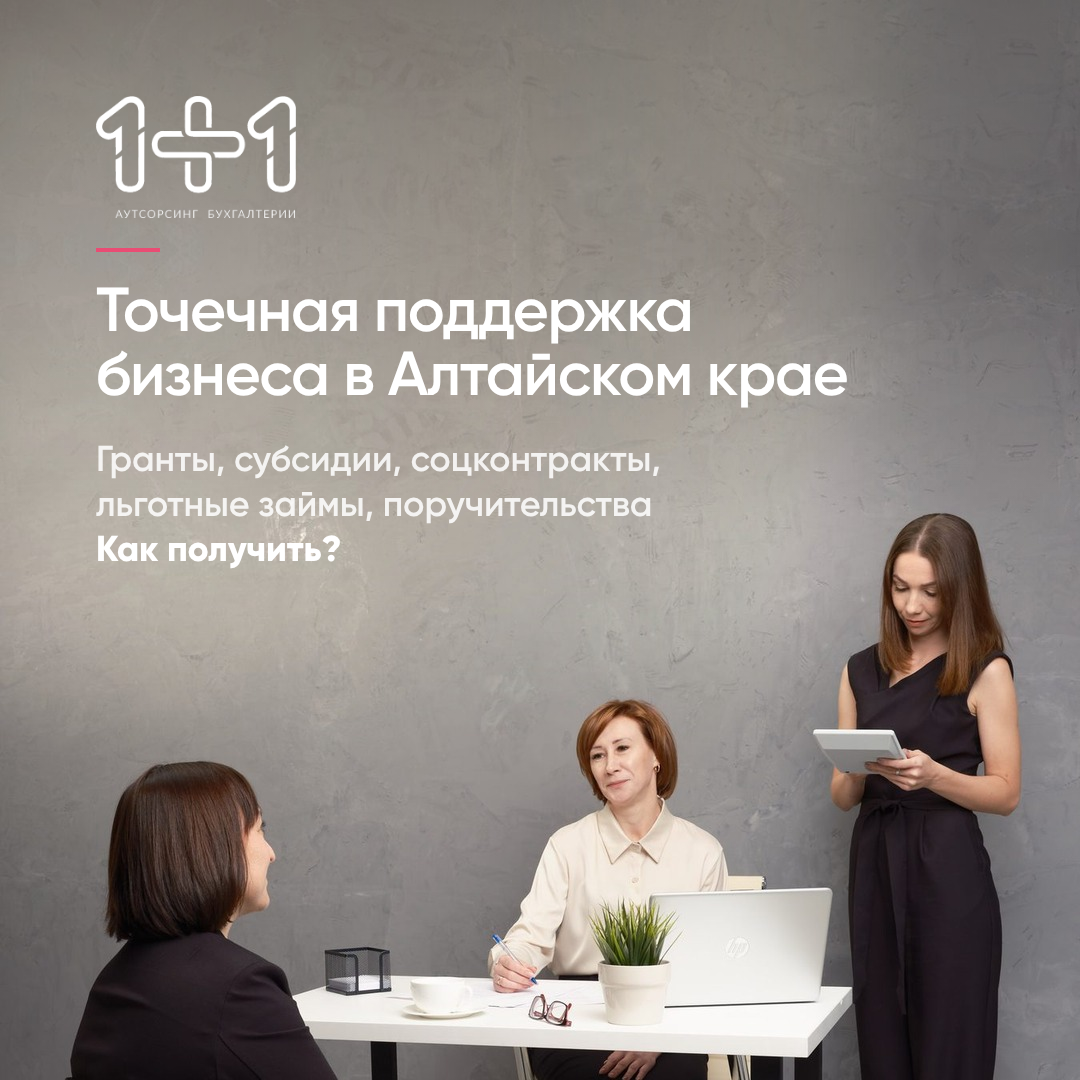
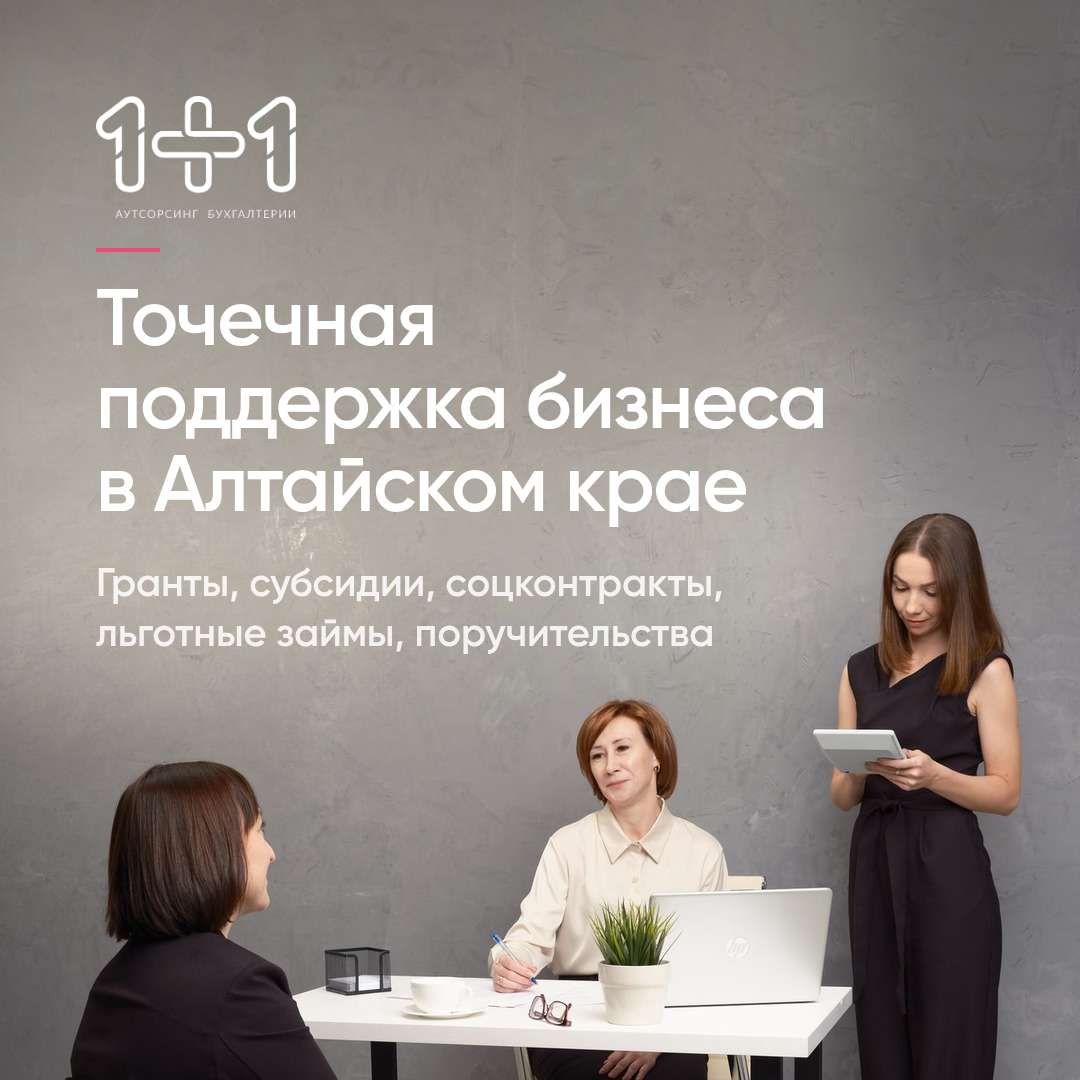
Поддержка бизнеса: убрана строка «Как получить?», заголовок крупнее
Claude-Session: https://claude.ai/code/session_01VZ7Hrkur6jxoGp5f6QSiLJ

Changed region(s): [[0.0917, 0.2444, 0.7944, 0.55], [0.0917, 0.5806, 0.6722, 0.6111]]

diff --git a/examples/support-b.html b/examples/support-b.html
@@ -1,10 +1,10 @@
 <!doctype html><html lang="ru"><head><meta charset="utf-8"><title>Точечная поддержка · V8 фрагмент</title>
 <link rel="stylesheet" href="../templates/base.css">
-<style>.band{position:absolute;left:0;bottom:0;width:1080px;height:380px;background:var(--photo) center/cover}
+<style>.band{position:absolute;left:0;bottom:0;width:1080px;height:400px;background:var(--photo) center/cover}
 .s{margin-top:26px;color:var(--stone);font-weight:500;max-width:888px}</style></head><body>
 <div class="canvas paper"><div class="band" data-slot="photo" style="--photo:url(../assets/team/color-0677.jpg)"></div>
 <img class="logo" src="../assets/logo-full.png" alt="">
 <div class="text-top"><div class="dash"></div>
 <div class="h-m" data-slot="title" data-fit data-sizes="80" data-max-lines="3">Точечная<br>поддержка бизнеса<br>в Алтайском крае</div>
-<p class="sub s" data-slot="sub" data-fit data-sizes="34" data-max-lines="3">Гранты, субсидии, соцконтракты,<br>льготные займы, поручительства<br><em class="acc">Как получить?</em></p></div></div>
+<p class="sub s" data-slot="sub" data-fit data-sizes="38" data-max-lines="2">Гранты, субсидии, соцконтракты,<br>льготные займы, поручительства</p></div></div>
 <script src="../templates/fit.js"></script></body></html>

diff --git a/examples/support-a.html b/examples/support-a.html
@@ -4,6 +4,6 @@
 <div class="canvas photo dark" style="--photo:url(../assets/team/square/concrete-0259-sq.jpg)"><div class="shade"></div>
 <img class="logo" src="../assets/logo-full-white.png" alt="">
 <div class="text-top"><div class="dash"></div>
-<div class="h-m" data-slot="title" data-fit data-sizes="62" data-max-lines="2">Точечная поддержка<br>бизнеса в Алтайском крае</div>
-<p class="sub q"  data-slot="sub" data-fit data-sizes="36" data-max-lines="3" style="margin-top:28px;font-weight:600">Гранты, субсидии, соцконтракты,<br>льготные займы, поручительства<br><span style="font-weight:800;color:#fff">Как получить?</span></p></div></div>
+<div class="h-m" data-slot="title" data-fit data-sizes="80" data-max-lines="3">Точечная<br>поддержка бизнеса<br>в Алтайском крае</div>
+<p class="sub q"  data-slot="sub" data-fit data-sizes="40" data-max-lines="2" style="margin-top:28px;font-weight:600">Гранты, субсидии, соцконтракты,<br>льготные займы, поручительства</p></div></div>
 <script src="../templates/fit.js"></script></body></html>

diff --git a/examples/support-c.html b/examples/support-c.html
@@ -5,5 +5,5 @@
 <img class="logo" src="../assets/logo-full-white.png" alt="">
 <div class="text-mid"><div class="dash"></div>
 <div class="h-l" data-slot="title" data-fit data-sizes="104,80" data-max-lines="3" style="margin-left:-4px">Точечная<br>поддержка бизнеса<br>в Алтайском крае</div>
-<p class="l" data-slot="sub">Гранты, субсидии, соцконтракты,<br>льготные займы, поручительства<b>Как получить?</b></p></div></div>
+<p class="l" data-slot="sub">Гранты, субсидии, соцконтракты,<br>льготные займы, поручительства</p></div></div>
 <script src="../templates/fit.js"></script></body></html>

diff --git a/registry/LOG.md b/registry/LOG.md
@@ -46,6 +46,6 @@
 | 2026-10-21-22 | 2026-10-21 | Форум «Сказочная бухгалтерия», сторис 1080×1920 | E1 | светлый, без плашек, девочка в рост | event/girl-abacus | PRO, БАРНАУЛ | — | предложен | story-b; дата «5 ноября 2026 г.», БАРНАУЛ крупно; логотип форума |
 | 2026-10-21-23 | 2026-10-21 | Форум «Сказочная бухгалтерия», квадрат: дата «г.» + БАРНАУЛ | E1 | светлый, 4 варианта | event/girl-abacus | PRO, БАРНАУЛ | — | предложен | forum-e/f/i/b обновлены: «5 ноября 2026 г.», БАРНАУЛ крупно, логотип форума везде на светлом фоне |
 | 2026-10-21-24 | 2026-10-21 | Форум «Сказочная бухгалтерия», сторис I с кремовыми плашками-таблетками | E1 | светлый + фиолетовая панель | event/girl-abacus | PRO красным в кремовой таблетке | — | предложен | story-i-pill; story-i: PRO красным без плашек |
-| 2026-10-21-25 | 2026-10-21 | Точечная поддержка бизнеса в Алтайском крае: гранты, субсидии… Как получить? | V1 | фото | team/square/concrete-0259-sq | черта | — | предложен | support-a |
-| 2026-10-21-26 | 2026-10-21 | Точечная поддержка бизнеса в Алтайском крае: гранты, субсидии… Как получить? | V8 | светлый | team/color-0677 | «Как получить?» | — | предложен | support-b: заголовок 80 в 3 строки |
-| 2026-10-21-27 | 2026-10-21 | Точечная поддержка бизнеса в Алтайском крае: гранты, субсидии… Как получить? | V3 | зелёный | — | вопрос | — | предложен | support-c |
+| 2026-10-21-25 | 2026-10-21 | Точечная поддержка бизнеса в Алтайском крае: гранты, субсидии… | V1 | фото | team/square/concrete-0259-sq | черта | — | предложен | support-a; без «Как получить?» |
+| 2026-10-21-26 | 2026-10-21 | Точечная поддержка бизнеса в Алтайском крае: гранты, субсидии… | V8 | светлый | team/color-0677 | «Как получить?» | — | предложен | support-b: заголовок 80 в 3 строки; без «Как получить?» |
+| 2026-10-21-27 | 2026-10-21 | Точечная поддержка бизнеса в Алтайском крае: гранты, субсидии… | V3 | зелёный | — | вопрос | — | предложен | support-c; без «Как получить?» |
